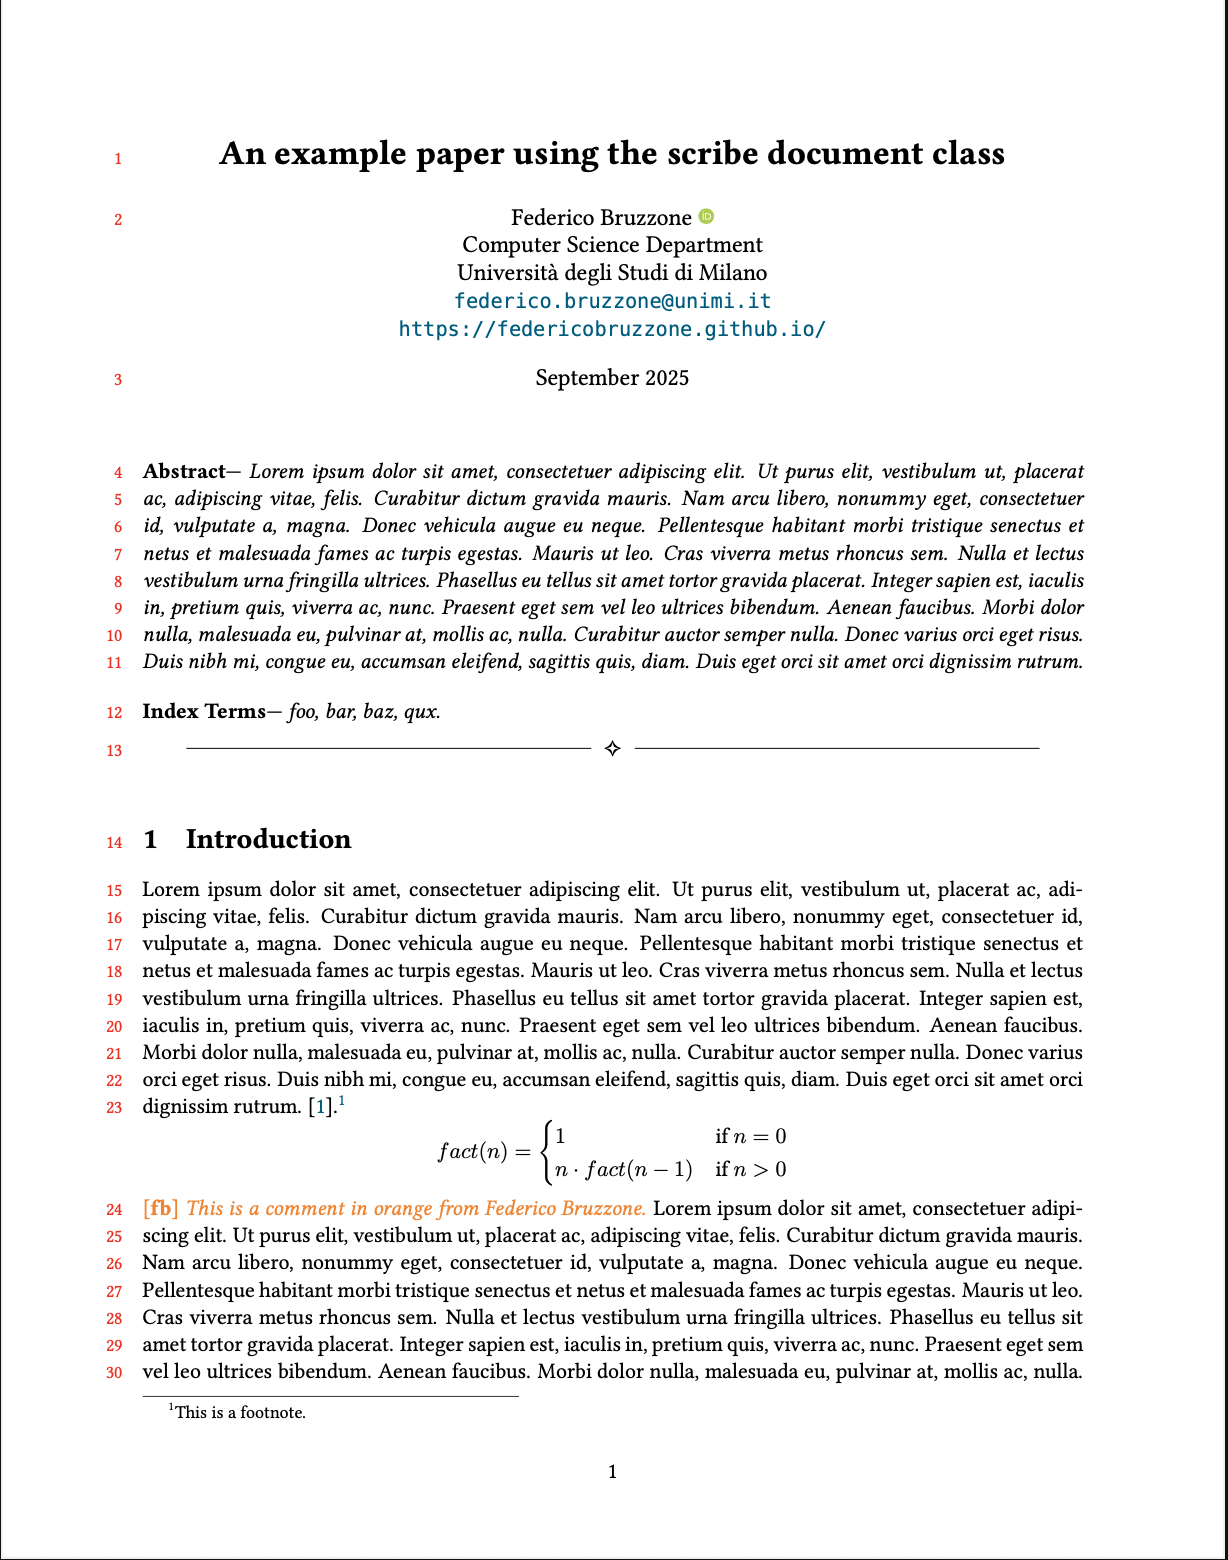
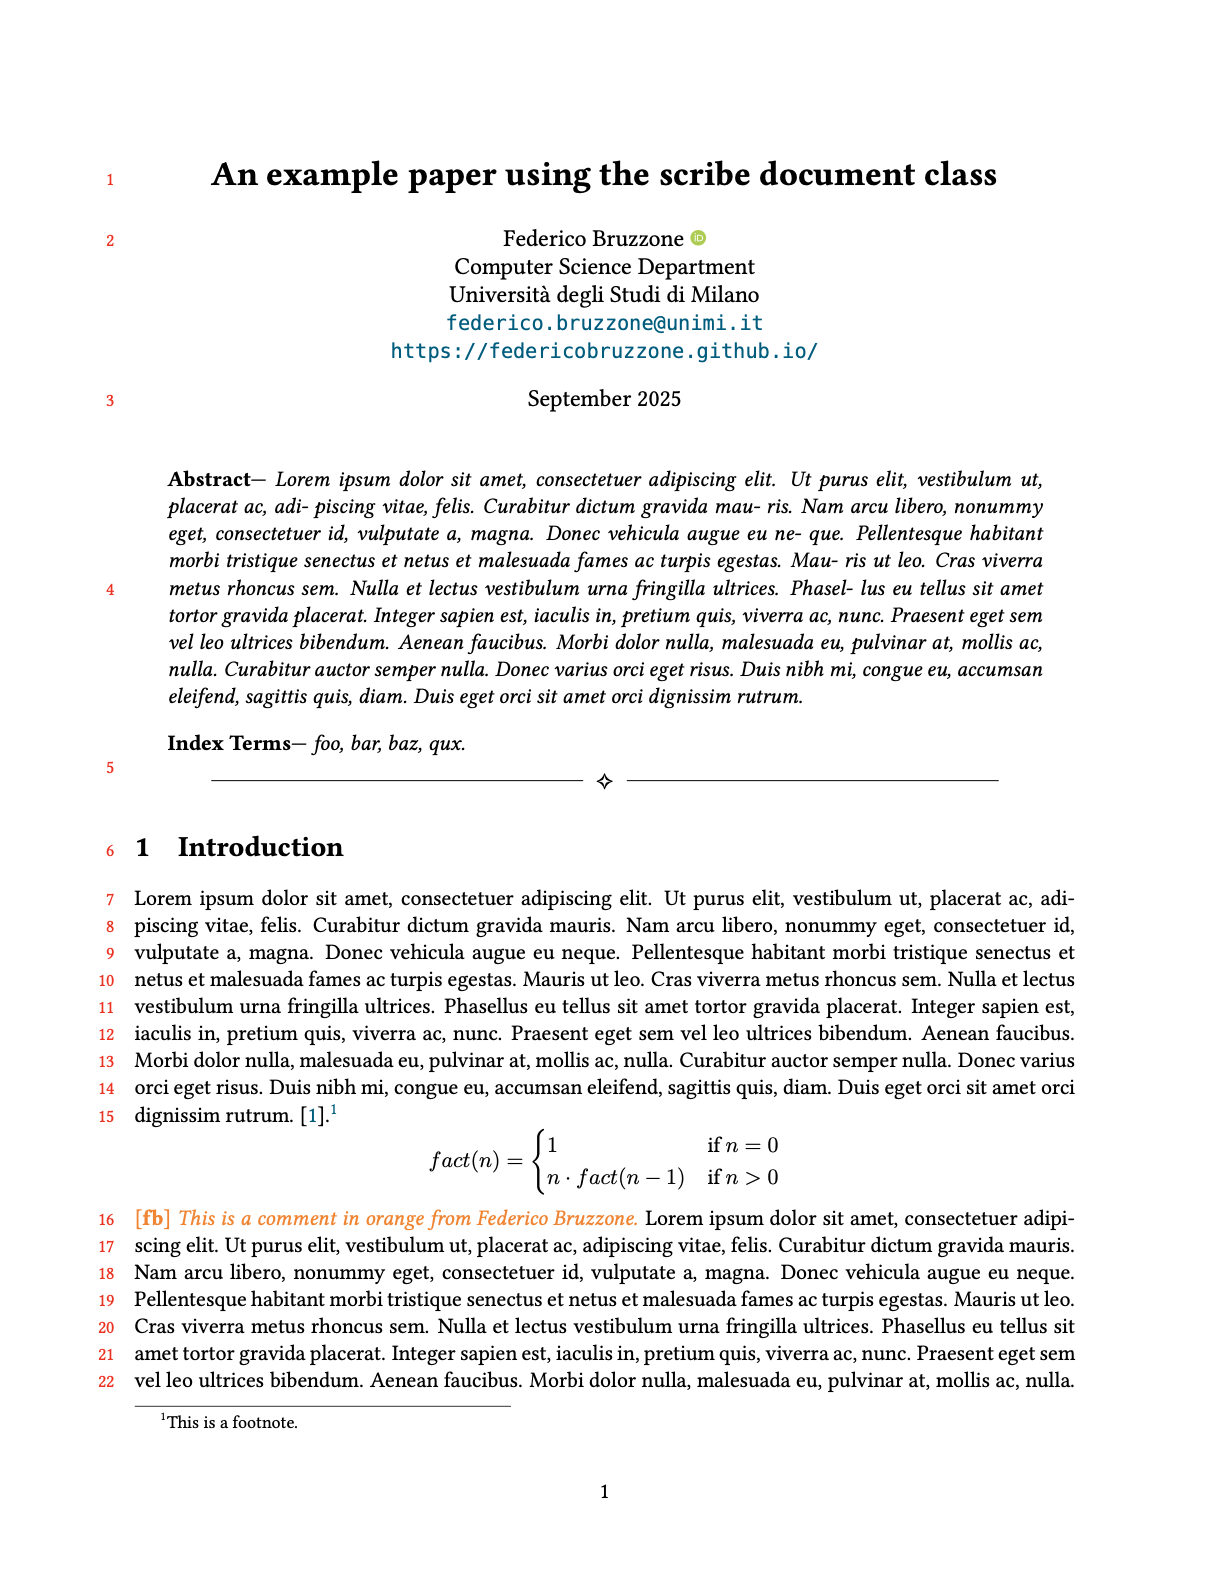
add(doc): images and pdf for examples

Changed region(s): [[0.0611, 0.5231, 0.8853, 0.9231], [0.0916, 0.0923, 0.8853, 0.4923], [0.9769, 0.0, 1.0, 1.0]]

diff --git a/README.md b/README.md
@@ -4,14 +4,19 @@
 
 <!-- [![One-column preview](docs/onecolumn.png)](example/onecolumn.pdf) -->
 <!-- [![Two-column preview](docs/twocolumns.png)](example/twocolumns.pdf) -->
+<!-- [![Two-column preview with abstract](docs/twocolumnabstract.png)](example/twocolumnabstract.pdf) -->
 
 <p align="center">
   <a href="example/onecolumn.pdf">
-    <img src="docs/onecolumn.png" alt="One-column preview" width="400"/>
+    <img src="docs/onecolumn.png" alt="One-column preview" width="250"/>
   </a>
   &nbsp;&nbsp;&nbsp;
-  <a href="example/twocolumns.pdf">
-    <img src="docs/twocolumns.png" alt="Two-column preview" width="400"/>
+  <a href="example/twocolumn.pdf">
+    <img src="docs/twocolumn.png" alt="Two-column preview" width="250"/>
+  </a>
+  &nbsp;&nbsp;&nbsp;
+  <a href="example/twocolumnabstract.pdf">
+    <img src="docs/twocolumnabstract.png" alt="Two-column preview with abstract" width="250"/>
   </a>
 </p>
 
@@ -40,6 +45,9 @@
 
 ## Usage
 
+An example of a paper using the `scribe` class is provided in the `example` folder. 
+Below is a minimal setup to have a one-column abstract in a two-column layout, with line numbers.
+
 ### 1. Add `scribe.cls` to your project folder.
 
 ### 2. In your main `.tex` file:
@@ -48,7 +56,7 @@
 \documentclass[
     lineno, % Enable line numbers.
     letterpaper, % Use 'a4paper' for A4 size.
-    % twocolumn, % Uncomment for two-column layout.
+    twocolumn, % Uncomment for two-column layout.
 ]{scribe} 
 
 % Set right header mark (e.g., your name)
@@ -57,7 +65,6 @@
 % Define different aliases (along with colors) for comments
 \scribedefinecomment{fb}{orange}
 % \scribedefinecomment{yourcolleague}{red}
-% ...
 
 % Uncomment the following line to hide comments in the final document.
 % \scribeshowcommentsfalse 
@@ -76,18 +83,24 @@
 
 \begin{document}
 
-\maketitle
+\twocolumn[
+	\maketitle
 
-\begin{abstract}
-   % Abstract text goes here. This is a brief summary of the document's content, highlighting the main objectives, methods, and findings.
-\end{abstract}
+	\begin{abstract}
+        % Abstract text goes here. This is a brief summary of the document's content, highlighting the main objectives, methods, and findings.
+	\end{abstract}
+
+	\begin{indexterms}
+        % Index terms for indexing purposes. These are keywords that help categorize the document's content.
+	\end{indexterms}
+]
+
 
 % ==============================
 % ========== Sections ==========
 % ==============================
 \input{sects/introduction}
 \input{sects/background}
-% ...
 
 
 \bibliography{local}
